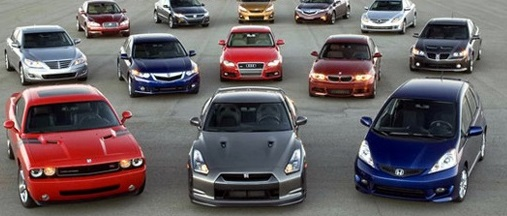
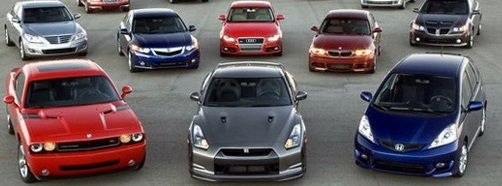
Login transactions continues.

diff --git a/RentACarProject/RentACarProject/Content/css/style.css b/RentACarProject/RentACarProject/Content/css/style.css
@@ -16,17 +16,22 @@ a {
     text-decoration: none;/*linklerin altındaki çizgiyi sildik.*/
     color: #fff;
 }
-    
-    a:hover {
-        color: #21353c;
-        cursor: pointer;
-    }
 
+.link-style:hover {
+        background-color: #10b7ef;
+        width: 75px;
+        height: 35px;
+        line-height: 35px;
+        border-radius: 5px;
+        cursor: pointer;
+        text-align: center;
+}
+    
 #wrapper {
      width: 960px;
      height: auto;
      margin: 0 auto;/*yatayda hizaladık div i*/
-     background-color: #0099CC;
+     background-color: #fff;
 }
 
 header {
@@ -62,20 +67,16 @@ header {
 
             header nav ul li {
                 float: left;
-                margin-left: 15px;/*linkler arasına 15login-girispx boşluk verdik*/
+                margin-left: 15px;/*linkler arasına 15px boşluk verdik*/
                 color: #fff;
             }
 
-                header nav ul li.uyeOl {
-                    margin-left: 460px;
-                }
-
 .banner {
     width: 960px;
-    height: 300px;
+    height: 280px;
     margin-top: 15px;/*yukarıdan boşluk verdik.*/
     float: left;
-    background-image: url(/Content/img/cars.jpg);
+    /*background-image: url(/Content/img/cars.jpg);*/
     background-size: cover;
    
 }
@@ -278,36 +279,77 @@ header {
                 background-color: #0099CC;
                 border-radius: 5px;
             }
-
+/*araç ekleme ekranına yönlendir*/
 .btn-aracYonlen {
      width: 100px;
      height: 40px;
      line-height: 40px;
      text-align: center;
      color: #fff;
-     margin-top: 10px;
-     background-color: #0099CC;
+     margin-top: 10px 0px 0px 10px;
      border-radius: 5px;
+     background-color: #32cd32;
+     
 }
 
+    .btn-aracYonlen:hover {
+   
+        background-color: #7cfc00;
+    }
+/*listeleme tablosu*/
+table {
+    margin: 0 auto;
+}
+
+tr {
+    width: 120px;
+    height: 40px;
+    line-height: 40px;
+    text-align: center;
+    color: #555;
+    font-size: 16px;
+    font-family: 'Gill Sans', 'Gill Sans MT', Calibri, 'Trebuchet MS', sans-serif;
+    
+}
+    tr th {
+        padding: 5px;
+        color: #fff;
+        font-size: 16px;
+        background-color: #32cd32;
+        
+    }
+
+    tr td {
+        padding: 8px;
+        margin: 8px;
+    }
+
 .icerik {
-    width: 645px;
+    width: 650px;
     height: 500px;
     float: right;
     margin-top: 15px; /*yukarıdan bu kadar boşluk verdik*/
     background-color: #fff;
+    
+    
+    /*overflow-y: scroll;/*sayfa uzunsa kaydırma çubuğu çıkması için kullanılır.*/ 
+}
 
+p {
+    padding: 15px;
+    font-family: 'Gill Sans', 'Gill Sans MT', Calibri, 'Trebuchet MS', sans-serif;
+    font-size: 15px;
 }
 
 footer {
     width: 960px;
     height: 45px;
-    line-height: 60px;
+    line-height: 45px;
     text-align: center;
     color: #555;
     float: left;
     margin-top: 15px;/*yukarıdan bu kadar boşluk verdik*/
-    font-family: Calibri;
+    font-family: 'Gill Sans', 'Gill Sans MT', Calibri, 'Trebuchet MS', sans-serif;
     background-color: #fff;
 }
 

diff --git a/RentACarProject/RentACarProject/Controllers/SubelerController.cs b/RentACarProject/RentACarProject/Controllers/SubelerController.cs
@@ -1,0 +1,24 @@
+using RentACarProject.Models;
+using System;
+using System.Collections.Generic;
+using System.Linq;
+using System.Web;
+using System.Web.Mvc;
+
+namespace RentACarProject.Controllers
+{
+    public class SubelerController : Controller
+    {
+        //
+        // GET: /Subeler/
+
+        public ActionResult Index()
+        {
+            var entities = new RentACarDBEntities();
+            var liste = entities.Subeler.ToList();
+            return View(liste);
+
+        }
+
+    }
+}
